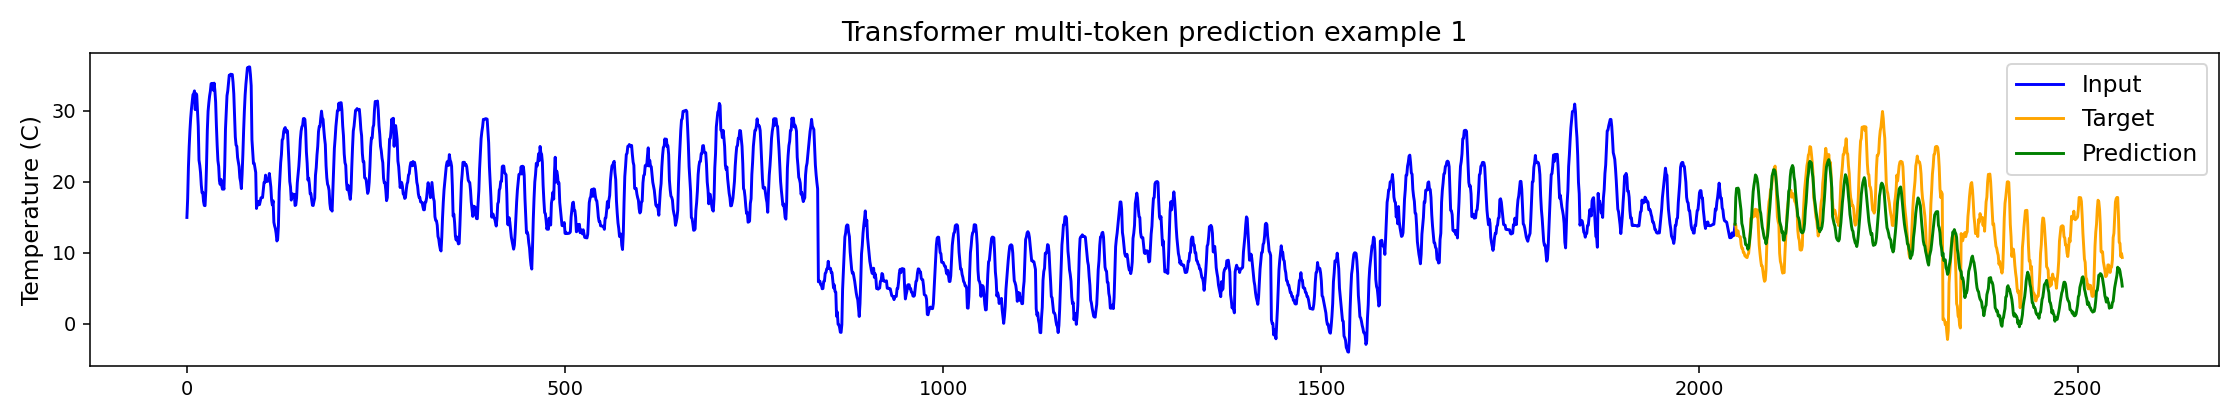
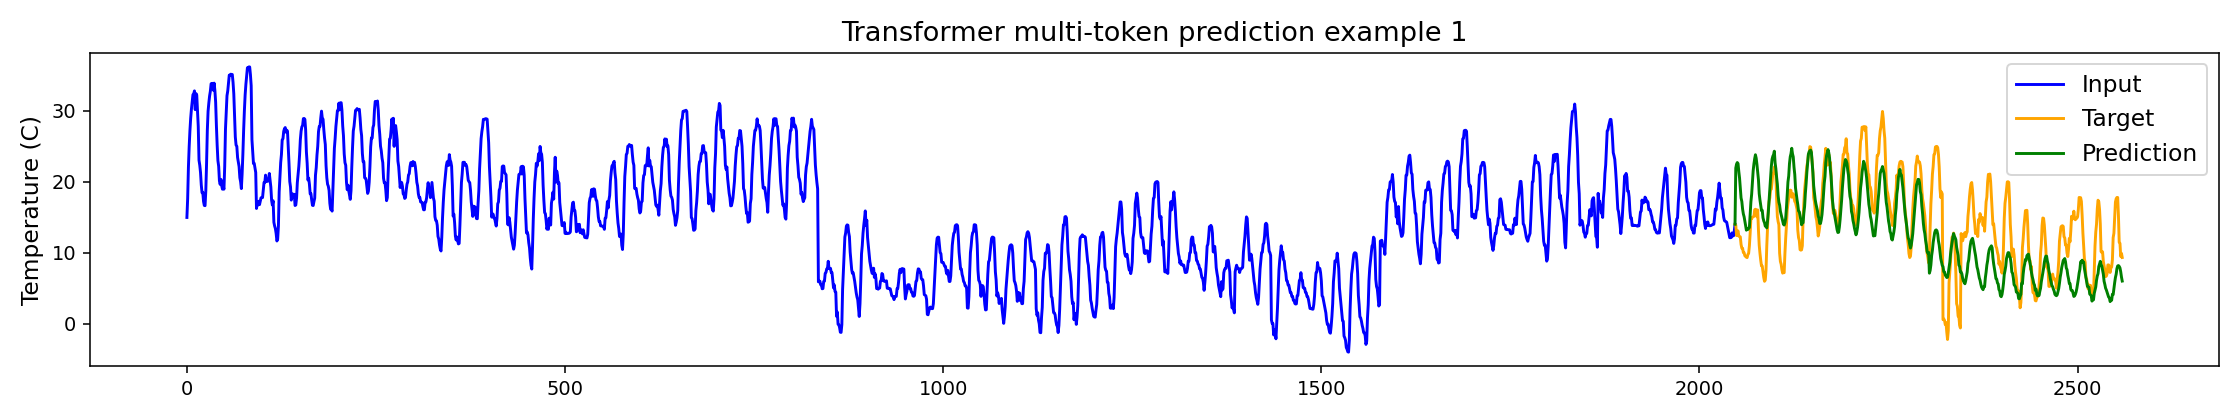
fix multi token plot

Changed region(s): [[0.75, 0.3405, 0.9688, 0.7738]]

diff --git a/post/transformer_time_series.html b/post/transformer_time_series.html
@@ -58,7 +58,7 @@
 		</p>
 
 		<p>
-			As any in-vogue method, transformers for time-series are not without a counter-movement (rightly) questioning the effectiveness and strength of baselines used. Discussing this is decidedly a non-goal of this post and we try to stick to implementation details. Nonetheless, the context provided by an evaluation setup is valuable to properly define the problem we are trying to solve. For this reason, we begin by implementing a very simple model for time series forecasting based on a multilayer perceptron (MLP) block which will act as our baseline.
+			As any in-vogue method, transformers for time-series are not without a <a target="_blank" href="https://arxiv.org/abs/2205.13504">counter-movement</a> (rightly) questioning the effectiveness and strength of baselines used. Discussing this is decidedly a non-goal of this post and we try to stick to implementation details. Nonetheless, the context provided by an evaluation setup is valuable to properly define the problem we are trying to solve. For this reason, we begin by implementing a very simple model for time series forecasting based on a multilayer perceptron (MLP) block which will act as our baseline.
 		</p>
 
 		<p class="comment">

diff --git a/post/mlp_version.py b/post/mlp_version.py
@@ -303,10 +303,10 @@ def autoregressive_forecast(model, title="", steps=10, start_idx=3000):
 
 def compare_multi_token():
     full_res = []
-    repeats = 5
+    repeats = 6
 
     for multiple in [2, 3, 4, 5]:
-        output_len = output_patch_len * output_patches
+        output_len = output_patch_len * multiple
         
         ds_train = TimeSeriesDataset(weather_ds, context_len, output_len, split="train")
         ds_test = TimeSeriesDataset(weather_ds, context_len, output_len, split="test")
@@ -331,13 +331,14 @@ def compare_multi_token():
                     dropout,
                 )
                 model = model.to(device)
+                optimizer = schedulefree.AdamWScheduleFree(model.parameters(), lr=learning_rate)
                 
                 final_loss = 0
                 
                 print("")
                 print(f"Starting training with repeat: {repeat+1}, multiple: {multiple}, mode: {mode}")
                 print("")
-                
+                                
                 for epoch in range(max_epochs):
                     print("--------Epoch {}--------".format(epoch + 1))
                     train(model, device, optimizer, dl_train)
@@ -345,7 +346,7 @@ def compare_multi_token():
                     
                 losses.append(final_loss)
                 
-            mul_res.append(([losses], np.array(losses).mean(), np.array(losses).std(), mode, multiple))
+            mul_res.append(([losses], np.array(losses).mean(), np.array(losses).std()/math.sqrt(repeats), mode, multiple))
             
         full_res.append(mul_res)
         
@@ -438,7 +439,7 @@ def test(model, device, optimizer, dataloader):
     model.eval()
     optimizer.eval()
 
-    progress_bar = tqdm(dataloader, desc="Validating", leave=True)
+    progress_bar = tqdm(dataloader, desc="Testing", leave=True)
 
     cum_loss = 0
 
@@ -454,7 +455,7 @@ def test(model, device, optimizer, dataloader):
             progress_bar.set_postfix(running_loss=cum_loss / (step + 1))
 
     val_mse = cum_loss / len(dataloader)
-    print(f"Validation MSE: {val_mse}")
+    print(f"Training MSE: {val_mse}")
     return val_mse
 
 
@@ -477,7 +478,7 @@ if __name__ == "__main__":
     
     learning_rate = 3e-4
     batch_size = 32 * 2
-    max_epochs = 4
+    max_epochs = 5
 
     device = "cpu"
 
@@ -485,9 +486,9 @@ if __name__ == "__main__":
         device = "cuda"
     elif torch.backends.mps.is_available():
         device = "mps"
-        
+    
     weather_ds = WeatherDataset()
-
+    
     ds_train = TimeSeriesDataset(weather_ds, context_len, output_len, split="train")
     ds_test = TimeSeriesDataset(weather_ds, context_len, output_len, split="test")
 
